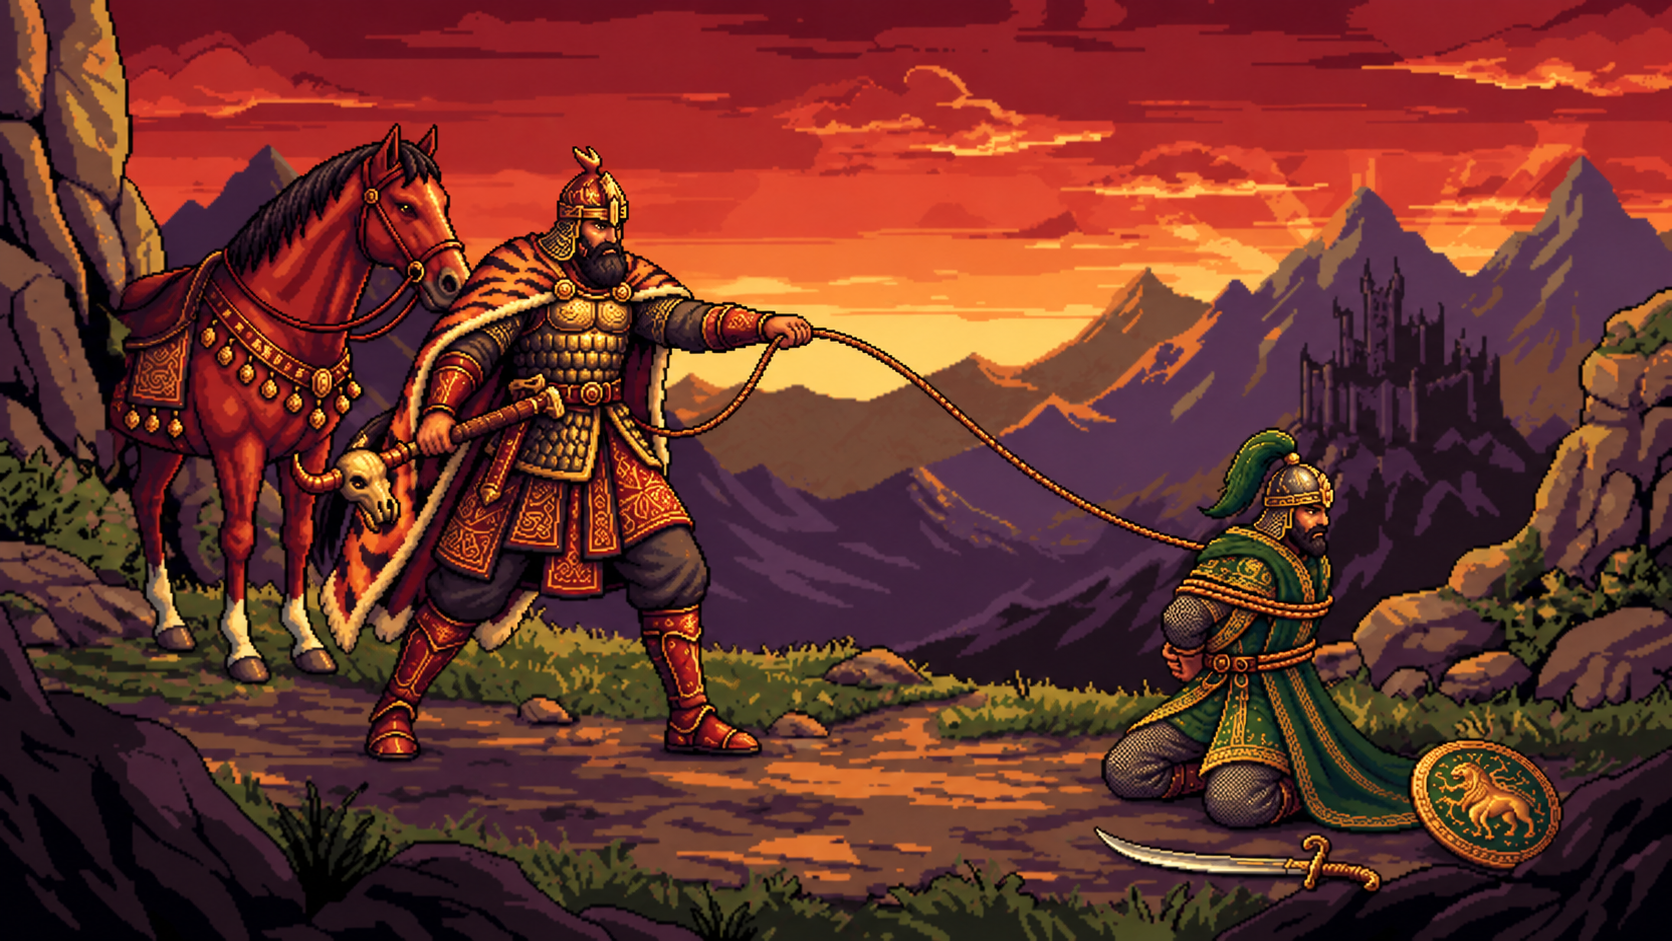
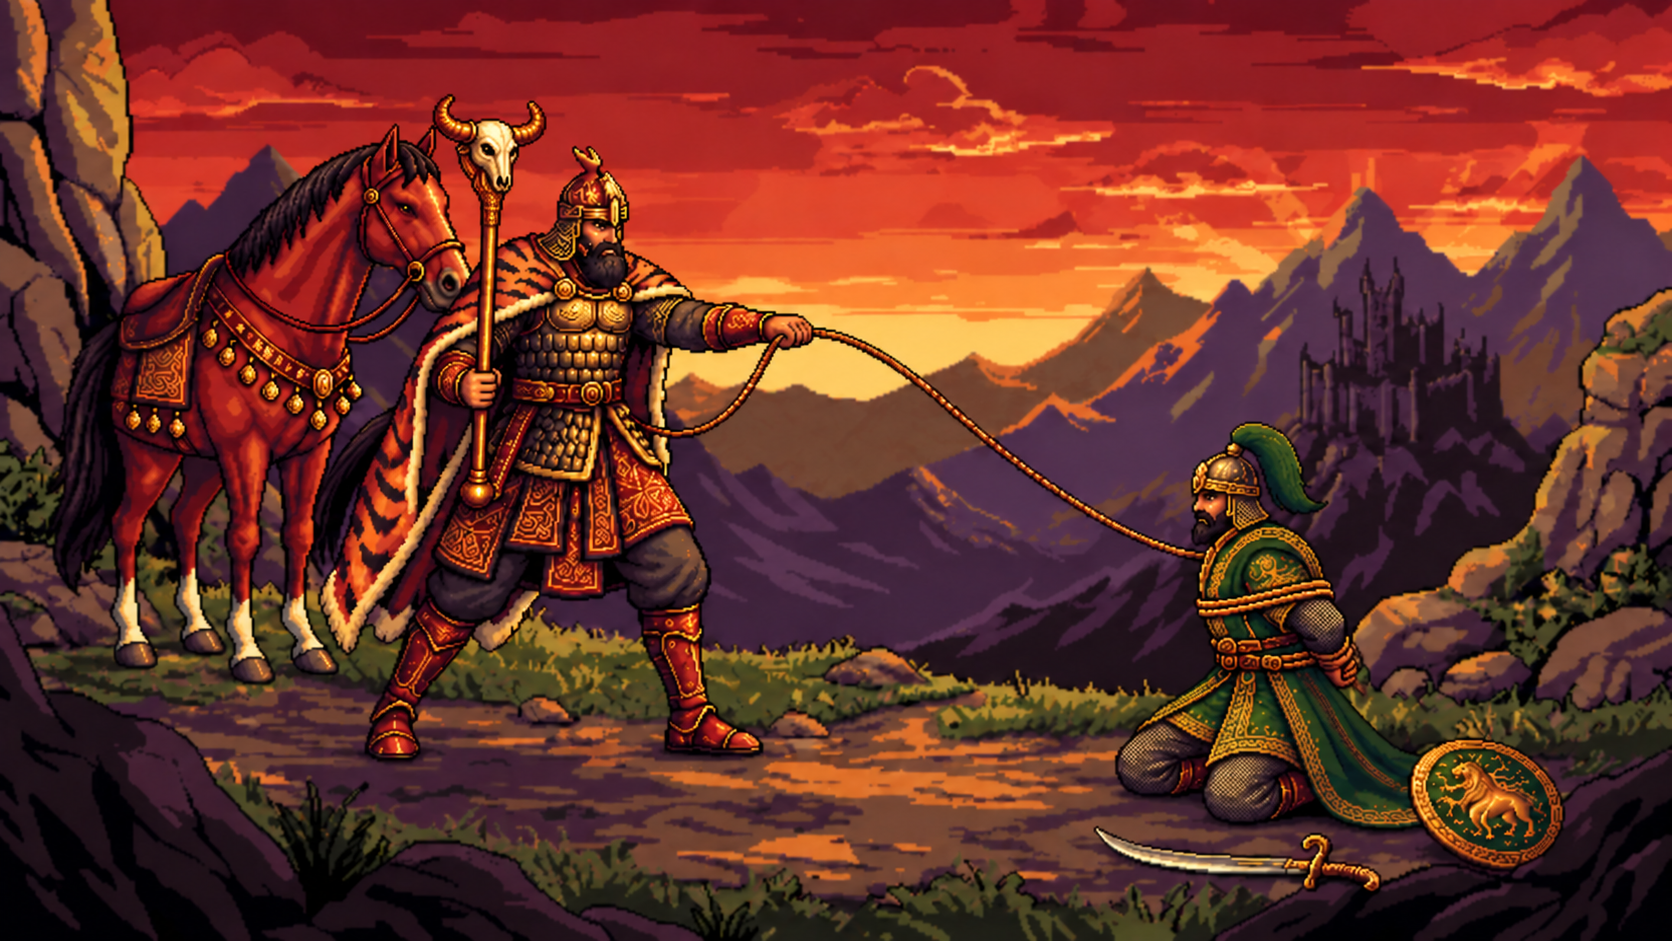
Correct Olad capture painting anatomy and Rostam ox-head mace

diff --git a/fun/shahnameh/game.js b/fun/shahnameh/game.js
@@ -68,7 +68,7 @@ const FPS = { 'jackal-die': 10, 'div-die': 10, 'scorpion-die': 10, 'vulture-die'
 const SIZE = { queen: 150, rider: 124, rostam: 112, lion: 148, jackal: 108, div: 108, scorpion: 86, vulture: 92, ram: 86, dragon: 136, rakhsh: 128, bat: 108, serpent: 92, hag: 108, beauty: 108, spearman: 140, olad: 92, divwarrior: 100, arzhang: 136, whitediv: 204, firediv: 104, ghul: 100 };
 const BODY = { queen: [0.62, 0.42], rider: [0.3, 0.5], rostam: [0.143, 0.393], lion: [0.5, 0.36], jackal: [0.3, 0.22], div: [0.22, 0.34], scorpion: [0.4, 0.22], vulture: [0.33, 0.2], ram: [0.4, 0.4],
   dragon: [0.46, 0.42], rakhsh: [0.5, 0.5], bat: [0.32, 0.24], serpent: [0.31, 0.31], hag: [0.27, 0.42], beauty: [0.2, 0.47], spearman: [0.115, 0.386], olad: [0.17, 0.49], divwarrior: [0.31, 0.64], arzhang: [0.3, 0.7], whitediv: [0.2667, 0.3867], firediv: [0.2, 0.6], ghul: [0.5, 0.36] };
-const V = 104;
+const V = 105;
 const RAKHSH1 = 128 / 229;                                               // Rakhsh's scale in Khan I: his strip is 229 px, the horse a little larger than the lion
 const REVISED_STORY_ART = new Set(['khan1-intro', 'khan4-intro', 'khan4-outro', 'khan5-intro', 'khan5-outro', 'khan7-intro', 'end2', 'open1', 'open2', 'open3', 'open4', 'open5', 'open6', 'khan1-outro', 'khan2-intro', 'khan2-outro', 'khan3-intro', 'khan3-outro', 'khan6-intro', 'khan6-outro', 'end1', 'end3']);
 let wakeArt = false, lionPrologueSeen = false;

diff --git a/fun/shahnameh/index.html b/fun/shahnameh/index.html
@@ -1312,6 +1312,6 @@ body.phone #touch .strike svg.sword{width:40px;height:40px}
 <script src="boot.js?v=92"></script>
 <script src="assets/vendor/phaser-3.80.1.min.js" data-game-script="engine"></script>
 <script src="journey-events.js?v=124" data-game-script="journey"></script>
-<script src="game.js?v=210" data-game-script="game"></script>
+<script src="game.js?v=211" data-game-script="game"></script>
 </body>
 </html>
